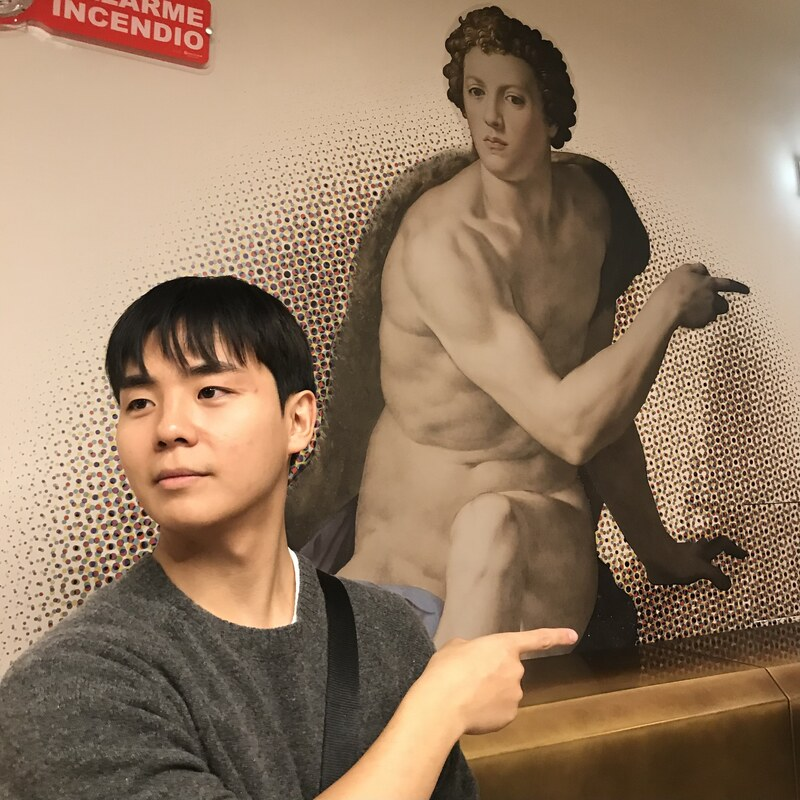
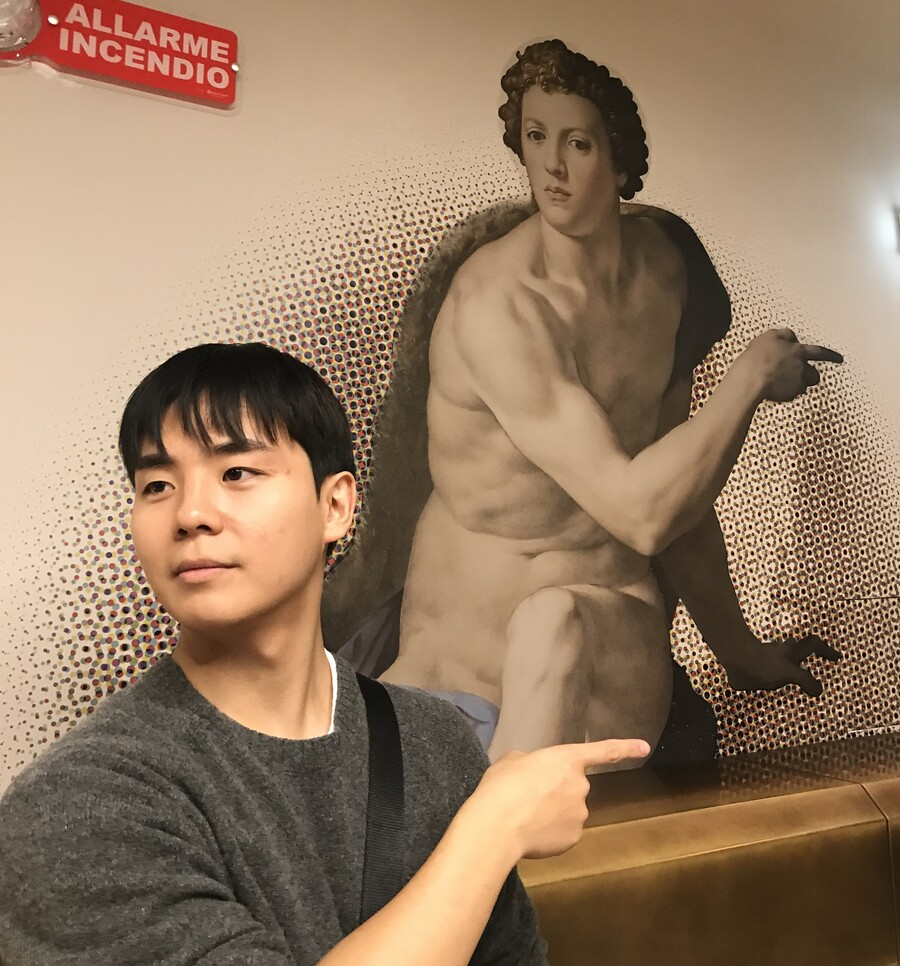
Portrait profile photo, drop paper links, tidy titles and location

diff --git a/index.html b/index.html
@@ -42,7 +42,7 @@
       <header>
         <h1>Jiwon Moon</h1>
 	<h2>문지원</h2>
-        <img src="materials/profile.jpg?v=3" width=240 alt="Face" />
+        <img src="materials/profile.jpg?v=4" width=240 alt="Face" />
         <p>Ph.D. Student at Seoul National University</p>
 	<i class="material-icons md-18">location_on</i> Seoul, Korea<br />
         <i class="material-icons md-18">email</i> wldnjs913@snu.ac.kr <br />
@@ -96,7 +96,7 @@
 <h3 id="experience">Experience</h3>
 
 <h4 class="education">
-  <a href="https://www.lgresearch.ai/">LG AI Research</a>, Seoul, Republic of Korea
+  <a href="https://www.lgresearch.ai/">LG AI Research</a>, Seoul, Korea
   <sup>2026.06-Present</sup>
 </h4>
 
@@ -110,13 +110,13 @@
 		        <!--<h4 id="conferences">International Conference Publications</h4>-->
 			<p><li>
 				<a href="">
-					<em>Does Instruction Hierarchy Hold When Multiple Sources Conflict?,</em>
+					<em>Does Instruction Hierarchy Hold When Multiple Sources Conflict?</em>
 				</a><br>
 				<b>Jiwon Moon</b>, Yerin Hwang, Changho Lee, Taegwan Kang, Jinsik Lee, Honglak Lee, Kyomin Jung<br> Under Review
 			</li></p>
 			<p><li>
 				<a href="https://arxiv.org/abs/2607.23545">
-					<em>Language Shapes Instruction Hierarchy Compliance in Multilingual LLMs,</em>
+					<em>Language Shapes Instruction Hierarchy Compliance in Multilingual LLMs</em>
 				</a><br>
 				<b>Jiwon Moon</b>, Yerin Hwang, Kyomin Jung<br> EMNLP 2026 Main [<a href="https://github.com/g1moon/Language-Shapes-IH", style="color:brown">
 								<em>Code</em>
@@ -124,19 +124,15 @@
 			</li></p>
 			<p><li>
 				<a href="https://arxiv.org/abs/2505.16222">
-					<em>Don't Judge Code by Its Cover: Exploring Biases in LLM Judges for Code Evaluation,</em>
+					<em>Don't Judge Code by Its Cover: Exploring Biases in LLM Judges for Code Evaluation</em>
 				</a><br>
-				<b>Jiwon Moon</b>, Yerin Hwang, Dongryeol Lee, Taegwan Kang, Yongil Kim, Kyomin Jung<br> EACL 2026 Findings [<a href="https://aclanthology.org/2026.findings-eacl.70/", style="color:brown">
-								<em>ACL Anthology</em>
-							</a>]
+				<b>Jiwon Moon</b>, Yerin Hwang, Dongryeol Lee, Taegwan Kang, Yongil Kim, Kyomin Jung<br> EACL 2026 Findings
 			</li></p>
 			<p><li>
 				<a href="https://arxiv.org/abs/2404.11916">
-					<em>Unplug and Play Language Models: Decomposing Experts in Language Models at Inference Time,</em>
+					<em>Unplug and Play Language Models: Decomposing Experts in Language Models at Inference Time</em>
 				</a><br>
-				Nakyeong Yang, <b>Jiwon Moon</b>, Junseok Kim, Yunah Jang, Kyomin Jung<br> CIKM 2025 (Oral) [<a href="https://dl.acm.org/doi/10.1145/3746252.3761011", style="color:brown">
-								<em>Paper</em>
-							</a>]
+				Nakyeong Yang, <b>Jiwon Moon</b>, Junseok Kim, Yunah Jang, Kyomin Jung<br> CIKM 2025 (Oral)
 			</li></p>
 
 </ul>
